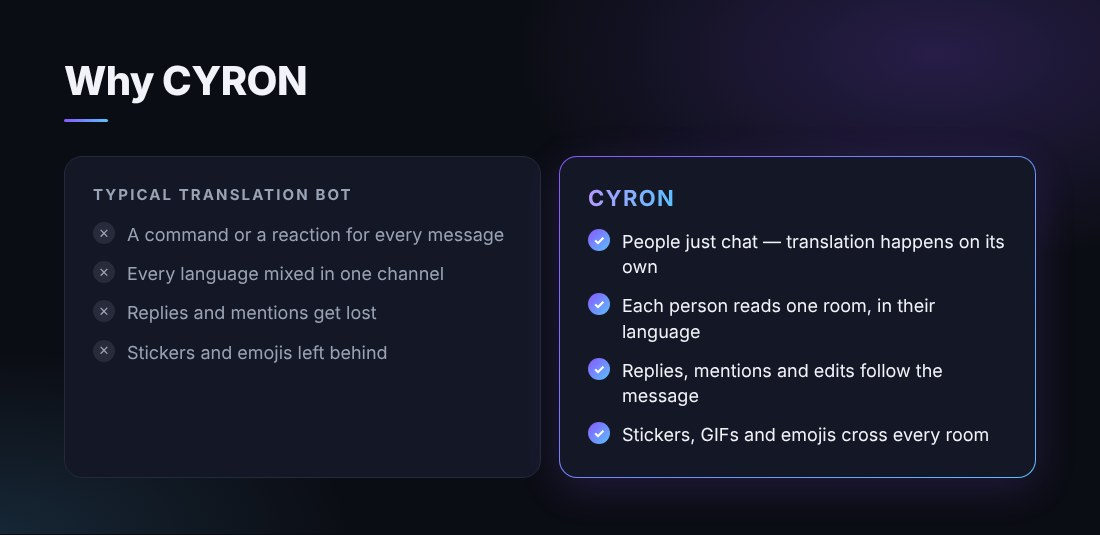
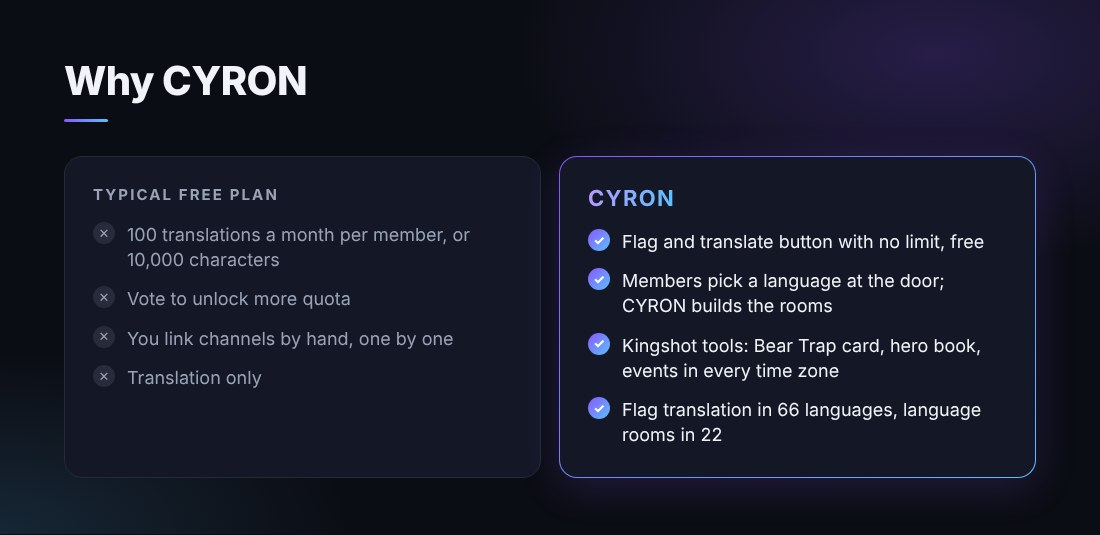
top.gg: comparação pelos pontos fortes de verdade (pesquisa dos concorrentes)
A pesquisa (Talksy, BabelBot, HephBot e outros) mostrou que vários já
espelham com nome e foto do autor -- a arte não pode dizer que "bot comum"
perde isso. Agora compara com o plano grátis comum (100 traduções/mês por
pessoa ou 10 mil caracteres, voto para liberar mais, canais ligados na mão)
e mostra o que só a CYRON tem: bandeira e botão sem limite, salas montadas
sozinhas, ferramentas de Kingshot, 66 línguas na bandeira. Sem frase de
beta na imagem, que envelheceria quando o beta acabar.

Claude-Session: https://claude.ai/code/session_01KEoVPUpsqnUtDW8kuRSzxb

diff --git a/video-divulgacao/arte-topgg.html b/video-divulgacao/arte-topgg.html
@@ -183,11 +183,11 @@ const TEXTOS = {
     k2t: "Hero book", k2: "Every hero, with tips to lead and join rallies.",
     k3t: "Duels & levels", k3: "Hero cards, duels, levels, role panels and welcome images.",
     bt: "Add CYRON to Discord", btSub: "free",
-    cmp: "Why CYRON", cmpOutro: "Typical translation bot",
-    o1: "A command or a reaction for every message", o2: "Every language mixed in one channel",
-    o3: "Replies and mentions get lost", o4: "Stickers and emojis left behind",
-    c1: "People just chat — translation happens on its own", c2: "Each person reads one room, in their language",
-    c3: "Replies, mentions and edits follow the message", c4: "Stickers, GIFs and emojis cross every room",
+    cmp: "Why CYRON", cmpOutro: "Typical free plan",
+    o1: "100 translations a month per member, or 10,000 characters", o2: "Vote to unlock more quota",
+    o3: "You link channels by hand, one by one", o4: "Translation only",
+    c1: "Flag and translate button with no limit, free", c2: "Members pick a language at the door; CYRON builds the rooms",
+    c3: "Kingshot tools: Bear Trap card, hero book, events in every time zone", c4: "Flag translation in 66 languages, language rooms in 22",
   },
   pt: {
     rotulo: "Bot de tradução para Discord", titulo1: "Um servidor.", titulo2: "Todas as línguas.",
@@ -207,11 +207,11 @@ const TEXTOS = {
     k2t: "Livro dos heróis", k2: "Cada herói, com dicas para liderar e entrar em rally.",
     k3t: "Duelos e níveis", k3: "Cartas de herói, duelos, níveis, painel de cargos e boas-vindas.",
     bt: "Adicionar a CYRON", btSub: "grátis",
-    cmp: "Por que a CYRON", cmpOutro: "Bot de tradução comum",
-    o1: "Um comando ou reação para cada mensagem", o2: "Todas as línguas misturadas no mesmo canal",
-    o3: "Respostas e menções se perdem", o4: "Figurinhas e emojis ficam para trás",
-    c1: "As pessoas só conversam — a tradução acontece sozinha", c2: "Cada um lê uma sala, na sua língua",
-    c3: "Respostas, menções e edições acompanham a mensagem", c4: "Figurinhas, GIFs e emojis atravessam as salas",
+    cmp: "Por que a CYRON", cmpOutro: "Plano grátis comum",
+    o1: "100 traduções por mês por pessoa, ou 10 mil caracteres", o2: "Votar para ganhar mais cota",
+    o3: "Você liga canal com canal, na mão", o4: "Só tradução",
+    c1: "Bandeira e botão de tradução sem limite, de graça", c2: "Cada um escolhe a língua na entrada e a CYRON monta as salas",
+    c3: "Ferramentas de Kingshot: Urso, livro dos heróis, eventos no fuso de cada um", c4: "Bandeira em 66 línguas, salas em 22",
   },
 };
 const q = new URLSearchParams(location.search);

diff --git a/discord-bot-gateway/topgg-pagina.js b/discord-bot-gateway/topgg-pagina.js
@@ -57,9 +57,9 @@ export function paginaDoTopgg({ beta = false } = {}) {
         "3. Replies, mentions, edits, stickers, GIFs and emojis follow the message.",
         "",
         "## Why CYRON",
-        arte("comparacao", "en", "Typical translation bot versus CYRON"),
-        "- Typical bots need a command or a reaction for every message, and mix every language in one channel.",
-        "- With CYRON people just chat: each person reads one room, in their own language, and replies, mentions, edits, stickers and emojis follow the message.",
+        arte("comparacao", "en", "Typical free plan versus CYRON"),
+        "- Typical free plans stop at around 100 translations a month per member (or 10,000 characters), and ask for votes to unlock more.",
+        "- CYRON's flag and translate button have no monthly limit. Members pick a language at the door and CYRON builds the rooms — no linking channels by hand. And it ships Kingshot tools no translator has.",
         "",
         "## Translation everywhere",
         arte("recursos", "en", "Flags, announcements, screenshots, voice notes, glossary and events"),
@@ -103,9 +103,9 @@ export function paginaDoTopgg({ beta = false } = {}) {
         "3. Respostas, menções, edições, figurinhas, GIFs e emojis acompanham a mensagem.",
         "",
         "## Por que a CYRON",
-        arte("comparacao", "pt", "Bot de tradução comum contra a CYRON"),
-        "- Bots comuns pedem um comando ou reação para cada mensagem, e misturam todas as línguas no mesmo canal.",
-        "- Com a CYRON as pessoas só conversam: cada um lê uma sala, na sua língua, e respostas, menções, edições, figurinhas e emojis acompanham a mensagem.",
+        arte("comparacao", "pt", "Plano grátis comum contra a CYRON"),
+        "- Os planos grátis comuns param em umas 100 traduções por mês por pessoa (ou 10 mil caracteres) e pedem voto para liberar mais.",
+        "- Na CYRON a bandeira e o botão de tradução não têm limite mensal. Cada um escolhe a língua na entrada e a CYRON monta as salas — sem ligar canal na mão. E ela traz ferramentas de Kingshot que nenhum tradutor tem.",
         "",
         "## Tradução em todo lugar",
         arte("recursos", "pt", "Bandeiras, avisos, prints, áudios, glossário e eventos"),
